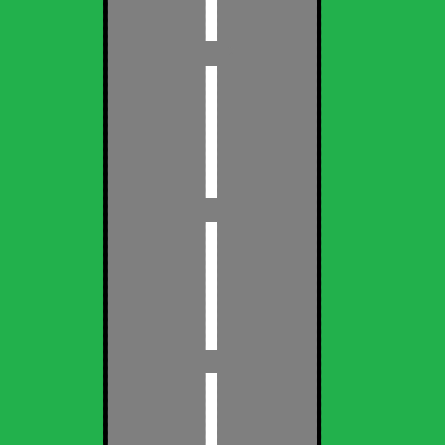
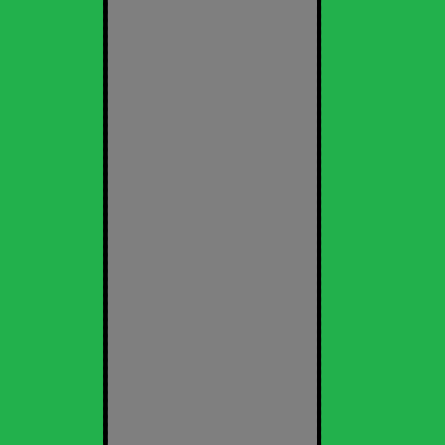
bg actualizado y lineas acomodadas

diff --git a/src/Menu.java b/src/Menu.java
@@ -43,7 +43,7 @@ public class Menu extends MouseAdapter implements ImageObserver {
 				
 				AudioPlayer.getSound("click").play();
 				AudioPlayer.getSound("arrancar").play();
-				handler.addObject(new Linea(Juego.ANCHO/2 - 40, -400 , ID.Linea, handler));
+				handler.addObject(new Linea(Juego.ANCHO/2 - 19, -400 , ID.Linea, handler));
 				//Aquí inicia el juego
 				//Agregar el jugador y unos enemigos al inico del juego		
 				
@@ -60,7 +60,7 @@ public class Menu extends MouseAdapter implements ImageObserver {
 							
 							while (true) {
 								Thread.sleep(2500);
-								handler.addObject(new Linea(Juego.ANCHO/2 - 40, -400 , ID.Linea, handler)); //Lineas
+								handler.addObject(new Linea(Juego.ANCHO/2 - 19, -400 , ID.Linea, handler)); //Lineas
 							}
 							/*
 							Thread.sleep(1000);

diff --git a/src/Juego.java b/src/Juego.java
@@ -169,11 +169,6 @@ public class Juego extends Canvas implements Runnable{
 			return var;
 	}
 	
-	public void setLineas(boolean valor) {
-		this.Lineas = valor;
-		
-	}
-	
 	
 	public static void main(String[] args) {
 		new Juego();
